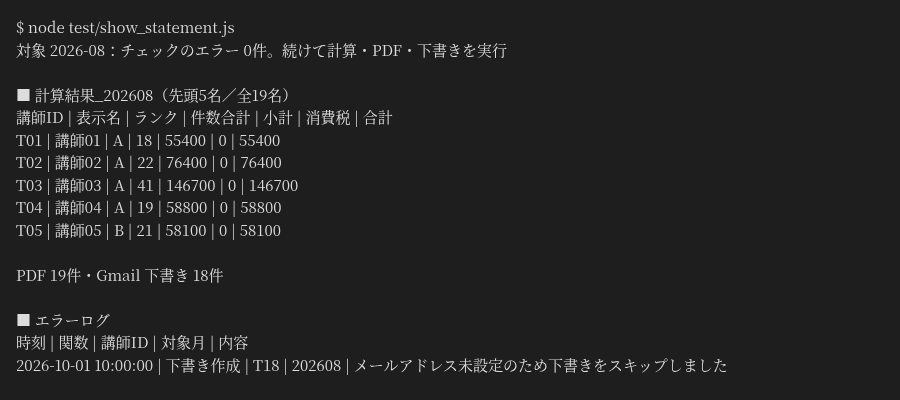
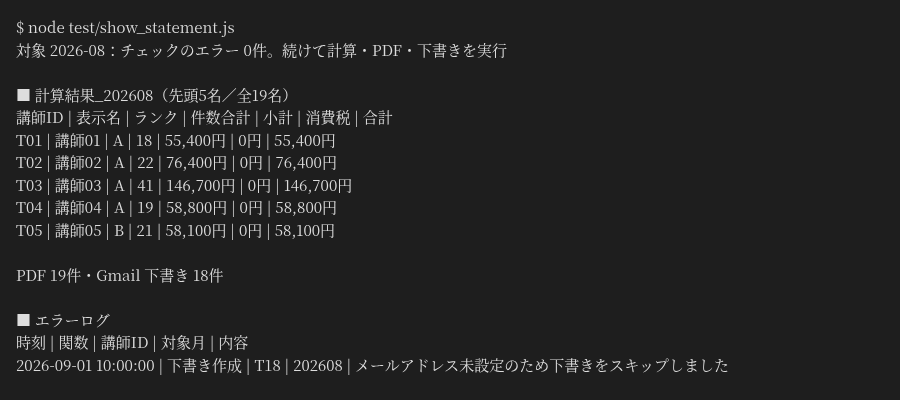
README: run date 2026-09-01, yen amounts, separate check vs error log note

Changed region(s): [[0.1867, 0.45, 0.4044, 0.6], [0.0622, 0.9, 0.8089, 0.93], [0.1867, 0.33, 0.3733, 0.42]]

diff --git a/test/show_statement.js b/test/show_statement.js
@@ -1,9 +1,9 @@
 // node test/show_statement.js : 架空の2026年9月分の実績で、チェック・計算・PDF・下書きをモック上で通し、結果を表示する。
-// 実行日時は 2026-10-01 10:00（日本時間）に固定した想定。実際の Apps Script・Gmail・ドライブでは実行していない（README の画像はこの出力）。
+// 実行日時は 2026-09-01 10:00（日本時間）に固定した想定。実際の Apps Script・Gmail・ドライブでは実行していない（README の画像はこの出力）。
 var fs = require('fs'), path = require('path'), vm = require('vm');
 var mockApis = require('./gas_mock/mock_apis.js');
 var ROOT = path.join(__dirname, '..');
-var FIXED = Date.UTC(2026, 9, 1, 1, 0, 0); // 2026-10-01 10:00 JST
+var FIXED = Date.UTC(2026, 8, 1, 1, 0, 0); // 2026-09-01 10:00 JST
 var RealDate = Date;
 function FixedDate() { var a = [].slice.call(arguments); return a.length ? new (Function.prototype.bind.apply(RealDate, [null].concat(a)))() : new RealDate(FIXED); }
 FixedDate.prototype = RealDate.prototype; FixedDate.now = function () { return FIXED; }; FixedDate.UTC = RealDate.UTC; FixedDate.parse = RealDate.parse;
@@ -27,7 +27,8 @@ var ck = c.runCheck(); c.runCalculate(); c.runPdf(); c.runDraft();
 console.log('対象 2026-08：チェックのエラー ' + ck.errorCount + '件。続けて計算・PDF・下書きを実行');
 var calc = ss.getSheetByName('計算結果_202608').__dumpRows();
 console.log('\n■ 計算結果_202608（先頭5名／全' + (calc.length - 1) + '名）');
-calc.slice(0, 6).forEach(function (r) { console.log(r.slice(0, 7).join(' | ')); });
+function yen(v) { return Number(v).toLocaleString('ja-JP') + '円'; }
+calc.slice(0, 6).forEach(function (r, i) { console.log(r.slice(0, 7).map(function (v, j) { return i && j >= 4 ? yen(v) : v; }).join(' | ')); });
 var pdfs = Object.keys(built.world.files).filter(function (k) { return built.world.files[k].mimeType === 'application/pdf'; }).length;
 console.log('\nPDF ' + pdfs + '件・Gmail 下書き ' + Object.keys(built.world.drafts).length + '件');
 console.log('\n■ エラーログ');

diff --git a/README.md b/README.md
@@ -4,7 +4,9 @@
 
 ![計算結果とエラーログ（模擬環境での出力）](docs/test_output.png)
 
-上の画像は、Google のサービスを偽物に置き換えた模擬環境で `node test/show_statement.js` を実行したときの実際の出力です（架空の講師20名・2026年8月分、実行日時は 2026-10-01 10:00 日本時間に固定）。本物の Google アカウントでの画面はまだありません。
+上の画像は、Google のサービスを偽物に置き換えた模擬環境で `node test/show_statement.js` を実行したときの実際の出力です（架空の講師20名・2026年8月分、実行日時は 2026-09-01 10:00 日本時間に固定）。本物の Google アカウントでの画面はまだありません。
+
+1行目の「チェックのエラー 0件」は①チェックで実績の入力に問題がなかったという結果で、下の「エラーログ」の1件は④下書き作成で講師18のメールアドレスがなかったという別の記録です。
 
 画像の見方：
 - 「消費税」が0なのは、見本の設定（data/settings.csv）の課税区分を「非課税」にしているためです（講師は個人請負という架空の想定）。「課税」にすると消費税率0.1で計算します
